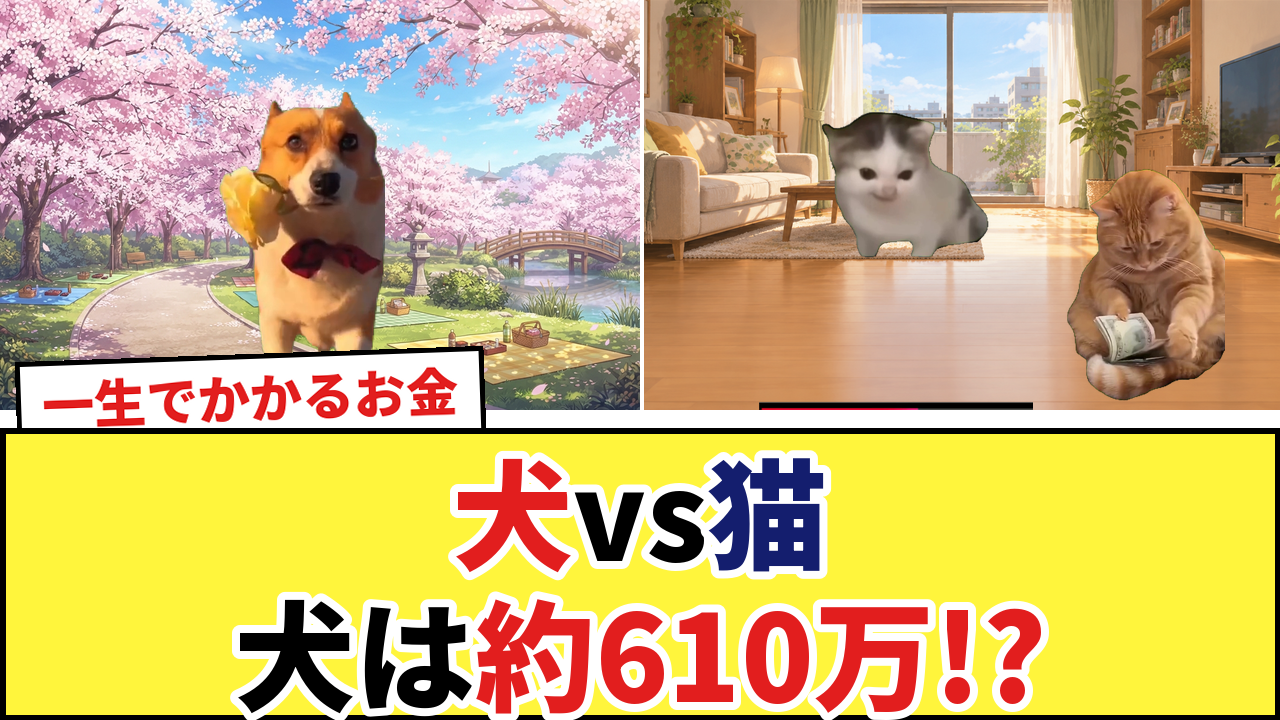
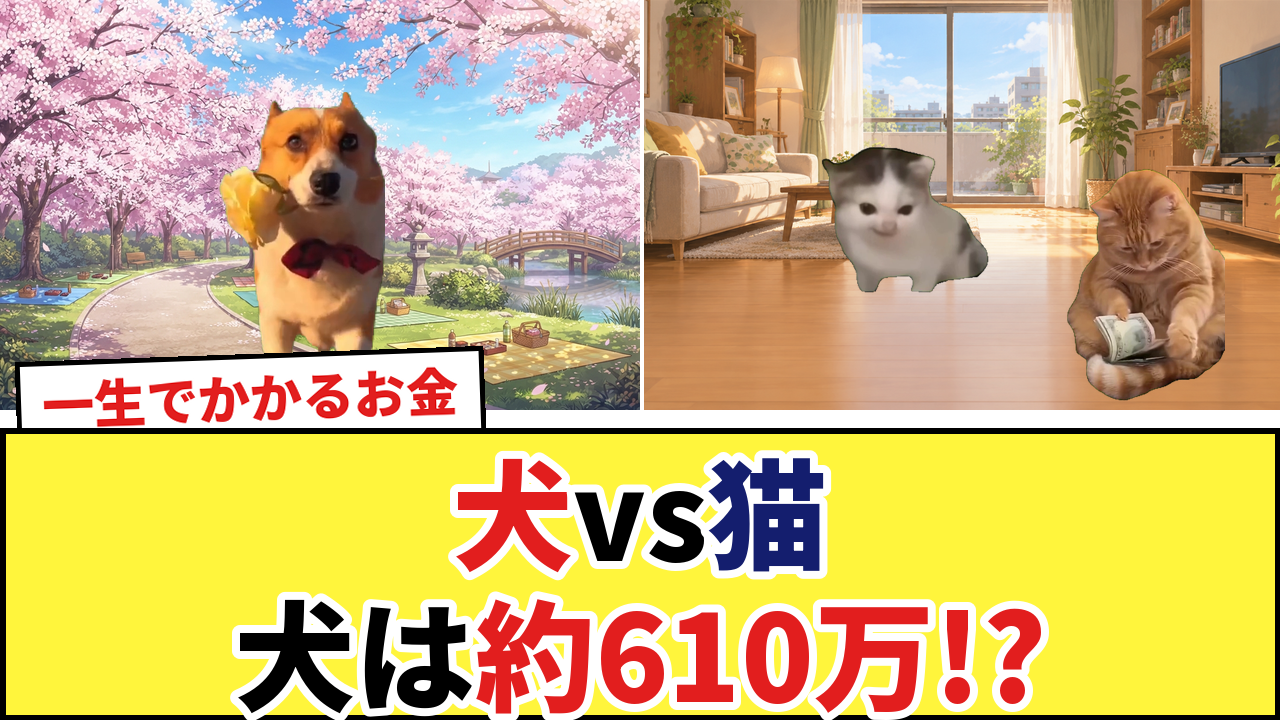
43 犬と猫：A案の文言3案（a1〜a3）・右の写真の下の線を消す
Claude-Session: https://claude.ai/code/session_011g9CsrfFD5YswfNSvNDW39

Changed region(s): [[0.625, 0.1528, 0.7812, 0.4278], [0.5938, 0.55, 0.8125, 0.5806]]

diff --git a/catmeme/make_thumb_43.py b/catmeme/make_thumb_43.py
@@ -15,7 +15,7 @@ R, BK, Y, NV = T.RED, T.BLACK, T.YELLOW, T.NAVY
 def main():
     T.type_a("43_petcost_thumb_a.png", "bg59_sakura_park", "bg02_room",
              ("dance_cute_dog", 1.0, 300, 410, 320, False),
-             [("meow_gray_white_kitten", 1.0, 900, 410, 300, False), ("money_counting_orange_cat", 1.0, 1150, 410, 280, True)],
+             [("meow_gray_white_kitten", 1.0, 900, 445, 300, False), ("money_counting_orange_cat", 1.0, 1150, 410, 280, True)],
              "一生でかかるお金",
              [("犬", R), ("vs", BK), ("猫", NV)], [("犬は", BK), ("約610万!?", R)], split=640, size=120)
     T.type_b("43_petcost_thumb_b.png",
@@ -33,3 +33,15 @@ def main():
 
 if __name__ == "__main__":
     main()
+
+
+def variants():
+    """11/7 ユーザー指定：A案をもとに文言を3案（a1・a2・a3）。"""
+    L, RC = ("dance_cute_dog", 1.0, 300, 410, 320, False), [("meow_gray_white_kitten", 1.0, 900, 445, 300, False),
+                                                           ("money_counting_orange_cat", 1.0, 1150, 410, 280, True)]
+    for name, tag, l1, l2 in [
+        ("a1", "飼う前に知りたい", [("犬", R), ("と", BK), ("猫", NV), ("　一生でいくら？", BK)], [("犬は", BK), ("新車1台分!?", R)]),
+        ("a2", "一生でかかるお金", [("猫", NV), ("は", BK), ("約310万", NV)], [("犬", R), ("はその", BK), ("2倍!?", R)]),
+        ("a3", "犬と猫のお金", [("1年で", BK), ("犬41万", R), ("・", BK), ("猫20万", NV)], [("一生だと", BK), ("約610万!?", R)]),
+    ]:
+        T.type_a("43_petcost_thumb_%s.png" % name, "bg59_sakura_park", "bg02_room", L, RC, tag, l1, l2, split=640, size=120)
